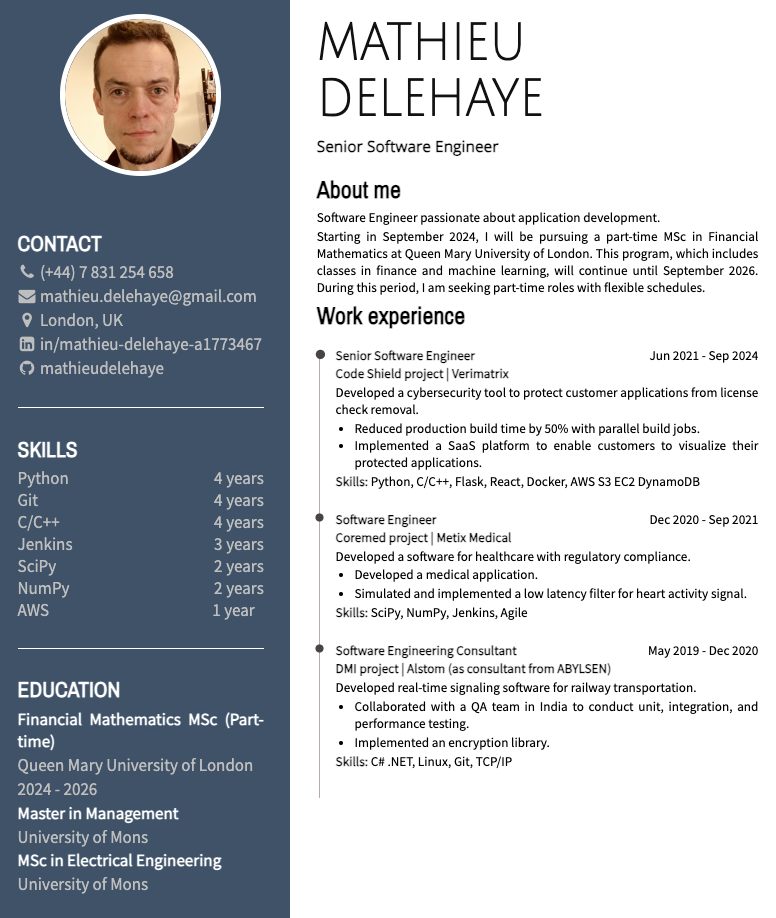
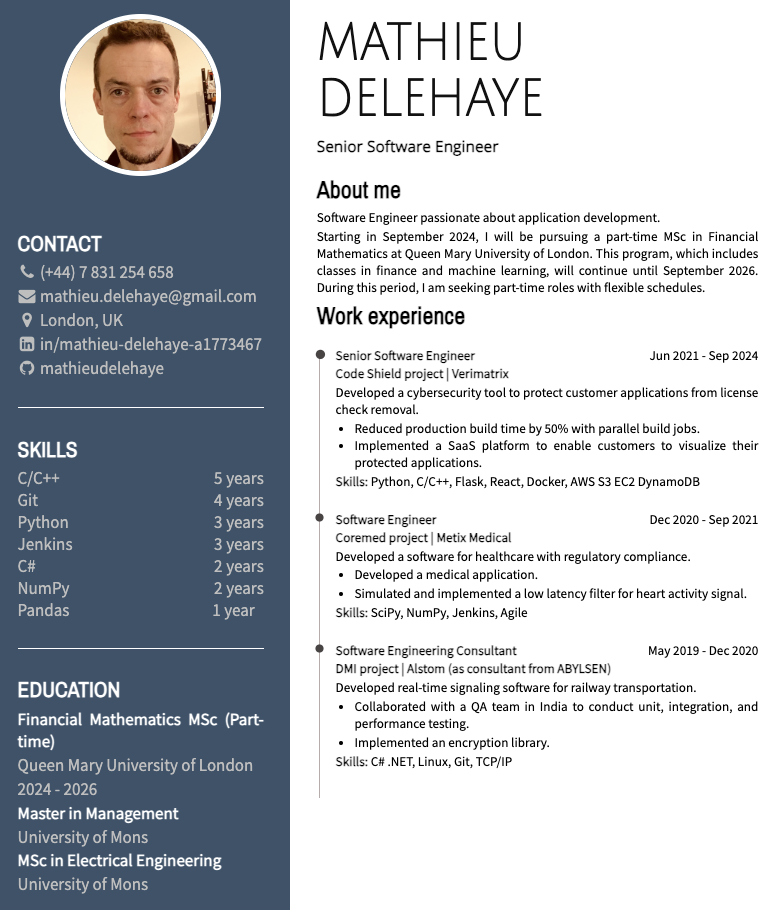
Content and screenshots updated

diff --git a/index.html b/index.html
@@ -53,10 +53,10 @@
             <div class="smallText">
               <div class="skill">
                 <div>
-                  <span>Python</span>
+                  <span>C/C++</span>
                 </div>
                 <div class="yearsOfExperience">
-                  <span class="alignright">4</span>
+                  <span class="alignright">5</span>
                   <span class="alignleft">years</span>
                 </div>
               </div>
@@ -73,10 +73,10 @@
 
               <div class="skill">
                 <div>
-                  <span>C/C++</span>
+                  <span>Python</span>
                 </div>
                 <div class="yearsOfExperience">
-                  <span class="alignright">4</span>
+                  <span class="alignright">3</span>
                   <span class="alignleft">years</span>
                 </div>
               </div>
@@ -90,16 +90,16 @@
                   <span class="alignleft">years</span>
                 </div>
               </div>
-              
-                            <div class="skill">
-                              <div>
-                                <span>SciPy</span>
-                              </div>
-                              <div class="yearsOfExperience">
-                                <span class="alignright">2</span>
-                                <span class="alignleft">years</span>
-                              </div>
-                            </div>
+
+              <div class="skill">
+                <div>
+                  <span>C#</span>
+                </div>
+                <div class="yearsOfExperience">
+                  <span class="alignright">2</span>
+                  <span class="alignleft">years</span>
+              </div>
+              </div>
 
               <div class="skill">
                 <div>
@@ -110,10 +110,10 @@
                     <span class="alignleft">years</span>
                 </div>
               </div>
-
+              
               <div class="skill">
                 <div>
-                  <span>AWS</span>
+                  <span>Pandas</span>
                 </div>
                 <div class="yearsOfExperience">
                   <span>1 year</span>
